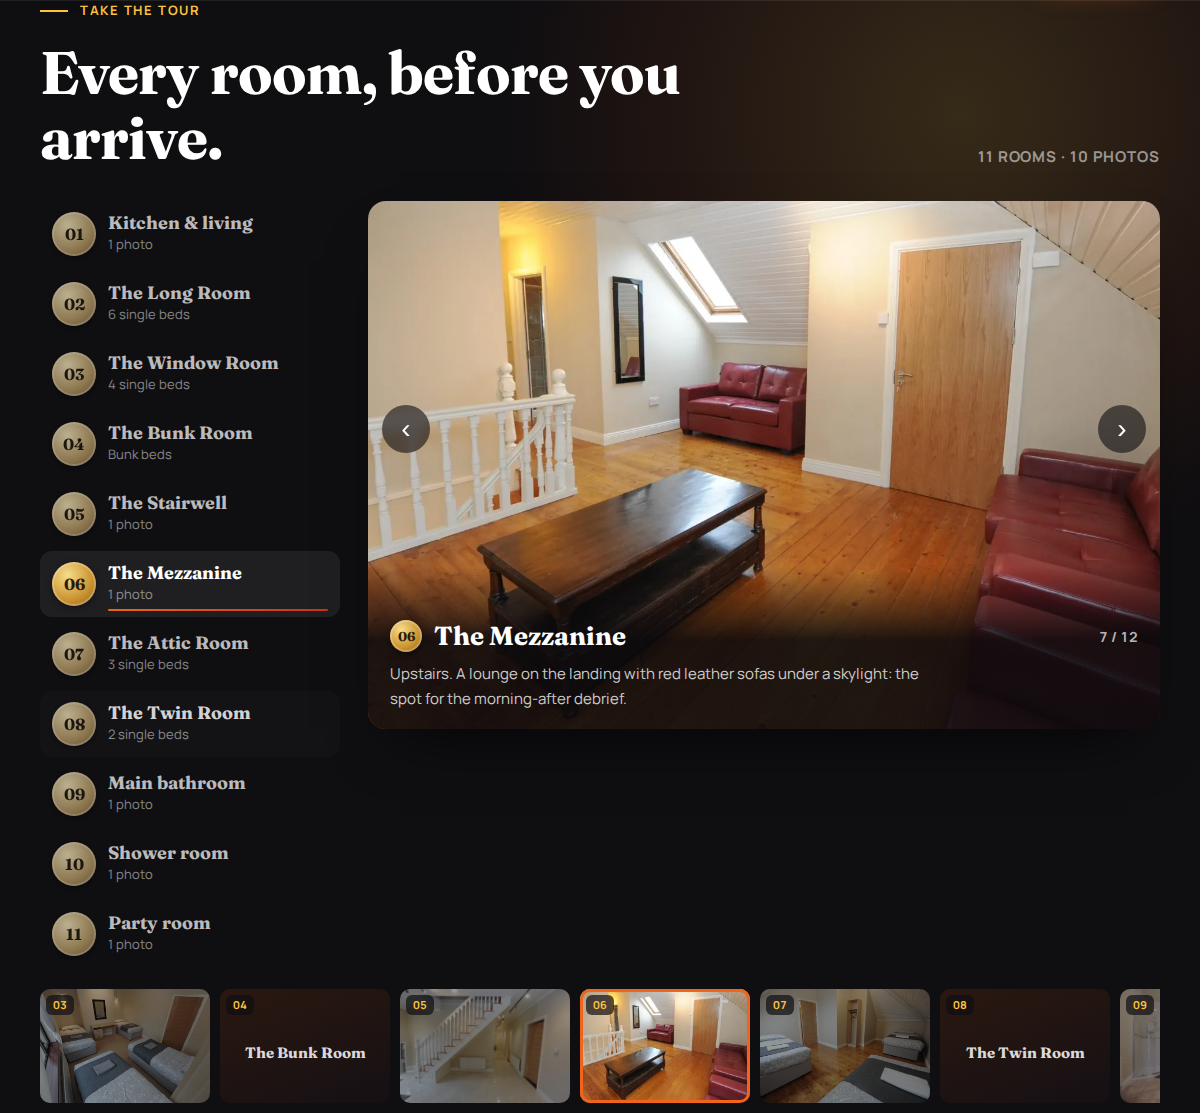
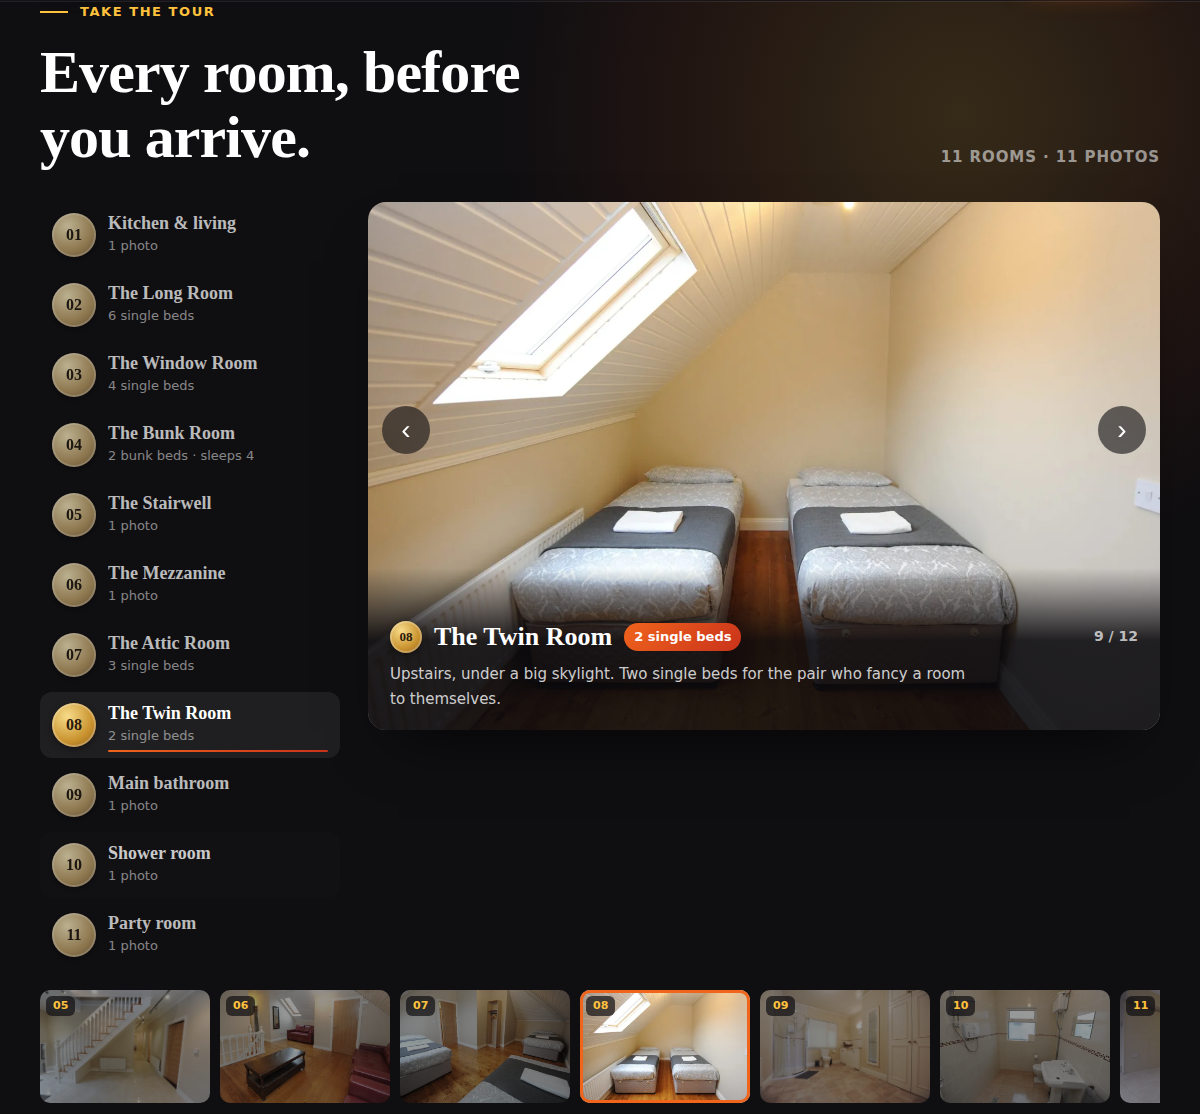
Add twin room photo; bunk room has 2 bunk beds (sleeps 4)
Claude-Session: https://claude.ai/code/session_01TfcG1Sk9vAKVEoyehBsksM

diff --git a/gasworkshousecarrick/gasworks-house/inc/tour.php b/gasworkshousecarrick/gasworks-house/inc/tour.php
@@ -49,8 +49,8 @@ function gwh_tour_rooms_default() {
 		),
 		array(
 			'name'   => __( 'The Bunk Room', 'gasworks-house' ),
-			'beds'   => __( 'Bunk beds', 'gasworks-house' ),
-			'note'   => __( 'Downstairs. Bunks for the crew who\'ll be up latest.', 'gasworks-house' ),
+			'beds'   => __( '2 bunk beds · sleeps 4', 'gasworks-house' ),
+			'note'   => __( 'Downstairs. Two sets of bunks for the crew who\'ll be up latest.', 'gasworks-house' ),
 			'photos' => array(
 				'bunk-room' => __( 'Downstairs bunk room', 'gasworks-house' ),
 			),
@@ -80,9 +80,9 @@ function gwh_tour_rooms_default() {
 		array(
 			'name'   => __( 'The Twin Room', 'gasworks-house' ),
 			'beds'   => __( '2 single beds', 'gasworks-house' ),
-			'note'   => __( 'Upstairs. Two single beds, for the pair who fancy a room to themselves.', 'gasworks-house' ),
+			'note'   => __( 'Upstairs, under a big skylight. Two single beds for the pair who fancy a room to themselves.', 'gasworks-house' ),
 			'photos' => array(
-				'twin-room' => __( 'Upstairs twin bedroom', 'gasworks-house' ),
+				'twin-room' => __( 'Upstairs twin bedroom with two single beds under a skylight', 'gasworks-house' ),
 			),
 		),
 		array(

diff --git a/gasworkshousecarrick/README.md b/gasworkshousecarrick/README.md
@@ -113,11 +113,11 @@ The built-in tour walks through the house: downstairs, up the stairwell, then up
 | 01 | Kitchen & living | `kitchen-living` ✅, `kitchen-stove`, `kitchen-dining` |
 | 02 | The Long Room (6 single beds) | `long-room` ✅ |
 | 03 | The Window Room (4 single beds) | `bedroom-window` ✅, `bedroom-quad` ✅ |
-| 04 | The Bunk Room (downstairs, bunk beds) | `bunk-room` |
+| 04 | The Bunk Room (downstairs, 2 bunk beds, sleeps 4) | `bunk-room` |
 | 05 | The Stairwell | `stairwell` ✅ |
 | 06 | The Mezzanine (upstairs lounge, red sofas) | `mezzanine` ✅ |
 | 07 | The Attic Room (3 single beds) | `attic-room` ✅ |
-| 08 | The Twin Room (upstairs, 2 single beds) | `twin-room` |
+| 08 | The Twin Room (upstairs, 2 single beds) | `twin-room` ✅ |
 | 09 | Main bathroom | `bathroom` ✅ |
 | 10 | Shower room | `shower-room` ✅ |
 | 11 | Party room | `party-room` ✅ |
